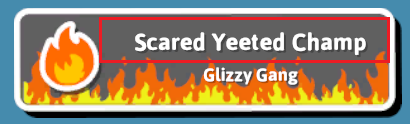
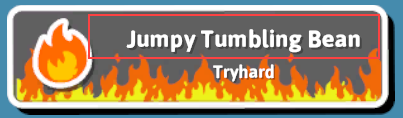
user guide a bit overworked

diff --git a/FallGuysNameFinder/doc/userGuide.html b/FallGuysNameFinder/doc/userGuide.html
@@ -22,12 +22,7 @@
 
     <h1>Possible Name Occurences</h1>
     <div class="content">
-        <p>I kindly refer you to <a href="https://docs.google.com/spreadsheets/d/1jSAlQGSY4-mX4mDfDxfQA4GISTS--FDibHp86GtDyiI/edit#gid=0">this list</a>. We figured that the following three third names are missing, though:</p>
-        <ul>
-            <li>Artist</li>
-            <li>Peanut</li>
-            <li>Lionheart</li>
-        </ul>
+        <p>I kindly refer you to <a href="https://docs.google.com/spreadsheets/d/1jSAlQGSY4-mX4mDfDxfQA4GISTS--FDibHp86GtDyiI/edit#gid=0">this list</a>.</p>
     </div>
 
     <h1>Patterns</h1>
@@ -68,7 +63,11 @@
             <li>Good Yeeted Yeetus</li>
         </ul>
         <p><span class="warn">Attention: </span> Patterns must match exactly. Watch your spelling!</p>
-        <p><span class="hint">Note: </span> Yet there is no option to define flexible patterns, like you define a bunch of acceptable first, second and third names, and any combination of these will match. This will come later.</p>
+    </div>
+
+    <h1>Pools</h1>
+    <div class="content">
+        <p>Yet there is no option to define pool-matching, like you define a bunch of acceptable first, second and third names, and any combination of these will match. This will come in v1.1 approx late September.</p>
     </div>
 
     <h1>Setting up Fall Guys</h1>
@@ -89,17 +88,17 @@
             <figcaption>Recommended Plate<br />Unicolor background.<br />Only few flame tips interfere.<br />Sufficient contrast.</figcaption>
         </figure>
         <figure>
+            <img src="gootPlate2.png" />
+            <figcaption>Recommended Plate<br />Thin image.<br />High contrast.<br />Binary background usually no problem.</figcaption>
+        </figure>
+        <figure>
             <img src="badPlate1.png" />
-            <figcaption>Bad Plate<br />Dino is too big.<br />Circles in background.</figcaption>
+            <figcaption>Bad Plate<br />Dino is too big.<br />Circles in background.<br />Low contrast.</figcaption>
         </figure>
 
         <figure>
             <img src="badPlate2.png" />
             <figcaption>Bad Plate<br />The contrast is too low.<br />Note the failed monochrome transformation.</figcaption>
-        </figure>
-        <figure>
-            <img src="badPlate2.png" />
-            <figcaption>Bad Plate:<br />Placeholder.</figcaption>
         </figure>
     </div>
 
@@ -108,10 +107,21 @@
     <ul>
         <li>Choose a simple nickname, one word only. Less words are better.</li>
         <li>Your nickname shall not be similar to an actual possible name.</li>
-        <li>Recommended Nickname: Parkour! (Far away from any possible name and only one word)</li>
+        <li>Recommended Nickname: Parkour! or Tryhard (Far away from any possible name and only one word)</li>
         <li>Bad Nickname: Rookie (Rookie is a possible name, the engine may get confused)</li>
         <li>Bad Nickname: Pro Slimb Climber (Three words, three potential confusion points)</li>
     </ul>
+
+    <div class="picarray">
+        <figure>
+            <img src="badNickname1.png" />
+            <figcaption>Terrible Setup.<br />Contrast too low.<br />The third word will often fail.<br /> Nickname is a name possibility.<br />Will often result in "Rocky Singing Rookie"</figcaption>
+        </figure>
+        <figure>
+            <img src="gootNickname1.png" />
+            <figcaption>Plate bad, nickname good.<br />Bright artifacts at right do interfere.<br />Snowflake may not be parsed everytime.<br />Since parkour is no name option,<br/>this will at least not result in "Special Bitter Parkour"</figcaption>
+        </figure>
+    </div>
 
     <h2>Resolution and Windowed Mode</h2>
     <div class="content">
@@ -154,7 +164,7 @@
             <li>Bouncy Yeeted Yeeter</li>
             <li>Nify Dancing Dancer</li>
         </ul>
-        <p><span class="warn">Attention:</span> Beware that the double-words are not hardcoded. Note the following counter examples. Gaming and Gamer don't share the same first four letters. Infallible and fall neither. You would have to add this combination manually (see below).</p>
+        <p><span class="warn">Attention:</span> Beware that the double-words are not hardcoded. Note the following counter examples. Gaming and Gamer don't share the same first four letters. Infallible and fall neither. You would have to add these combinations manually. On the other hand, <code>Charging Charmer</code> would match since the first four letters are equal. It's a bit of a compromise-option.</p>
         <ul class="code">
             <li>Cold Gaming Gamer</li>
             <li>Infallible Fallen Apple</li>
@@ -169,8 +179,14 @@
     </div>
 
     <h1>On success</h1>
+    <h2>Returning to the main menu</h2>
     <div class="content">
-        <p>Once a pattern matched, the engine will press <code>ESC</code> to return to the main menu. Ironically, you don't get your name the time you are rolling it, but when you leave the profile page. If you left the tool running afk overnight, and it found your name somewhen, you are actually in some idle-state without a server connection. The moment you press <code>ESC</code>, it tries to save your new name, but will fail in an error. In the end, you have the name you started with. That's why the tool presses <code>ESC</code> at the end. I hope this works, I am still investigating.</p>
+        <p>Once a pattern matched, the engine will press <code>ESC</code> to return to the main menu. This is necessary to store your new name. Weirdly, you don't get your name assigned at the time you roll it, but when you return to the main menu. If the time between rolling and going back to the main menu is too long, ther will be an idle-error. Thus, the engine goes back to the menu.</p>
+    </div>
+
+    <h2>Pro Tip: Keep your old name</h2>
+    <div class="content">
+        <p>As just learned above, your name gets stored once you return to the main menu. This means, if you never return to the menu, you keep your old name. If you only rolled garbage and your original name was better, you can Alt+F4 the game from the profile screen and you keep whatever name you originally had.</p>
     </div>
 </body>
 </html>

diff --git a/FallGuysNameFinder/doc/about.html b/FallGuysNameFinder/doc/about.html
@@ -15,6 +15,7 @@
     <p>Thomas Kistler</p>
     <p><b>Mail:</b> <a href="mailto:thomaskistler@bluewin.ch">click</a></p>
     <p><b>Steam Friend Code:</b> 75610105</p>
+    <p><b>Discord:</b> Tom#2061</p>
     <p><b>Support:</b> <a href="https://www.paypal.me/tomk453" target="_blank">Donate</a></p>
 
     <h2>Contribute</h2>

diff --git a/FallGuysNameFinder/MainWindow.xaml.cs b/FallGuysNameFinder/MainWindow.xaml.cs
@@ -275,8 +275,8 @@ namespace FallGuysNameFinder
         private CancellationTokenSource previousTokenSrc;
         private async void RecalculateProbability()
         {
-            this.ViewModel.TimeEstimate = "calculating...";
-            this.ViewModel.ChanceToHit = "calculating...";
+            this.ViewModel.TimeEstimate = "...";
+            this.ViewModel.ChanceToHit = "...";
             try
             {
                 previousTokenSrc?.Cancel();
